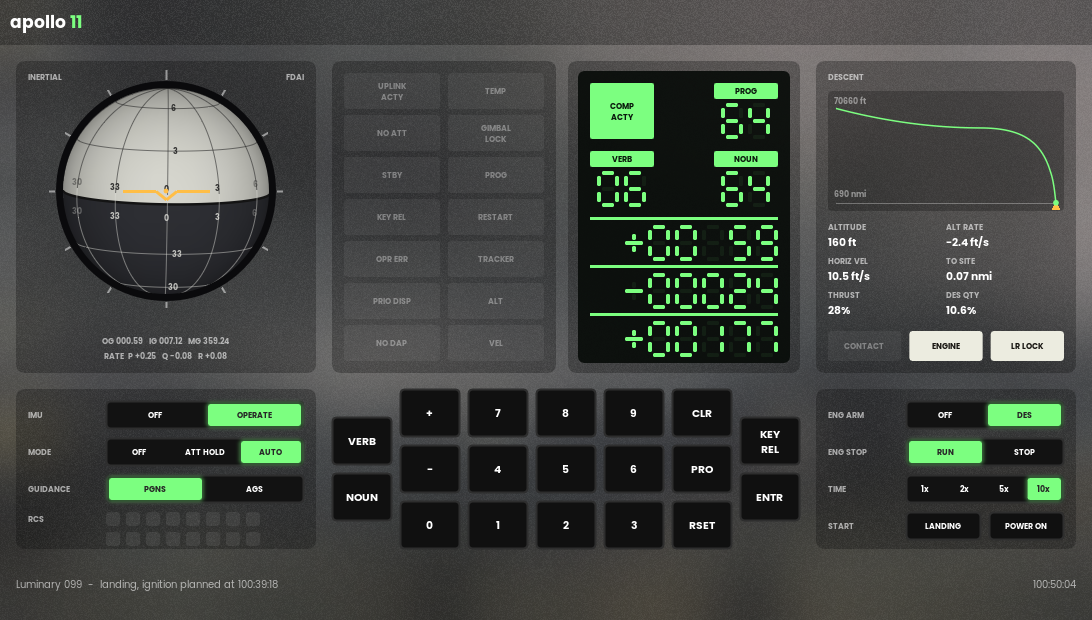
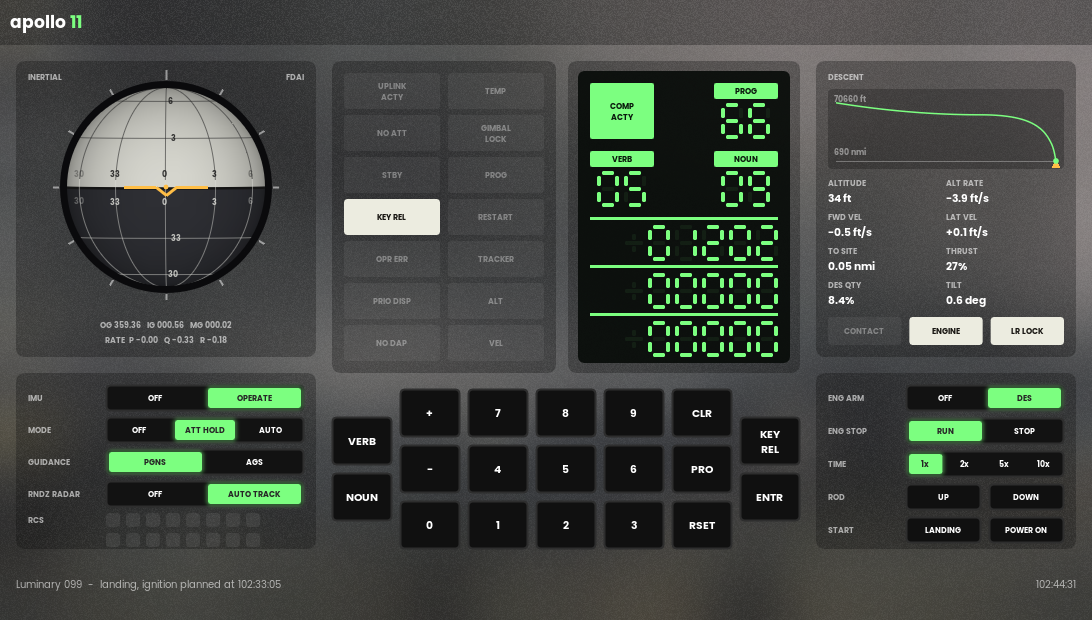
readme: P66, 1202, new screenshots

diff --git a/README.md b/README.md
@@ -23,7 +23,7 @@ so it's an emulator, not a port. the autopilot in the rope is what flies the lun
   - `yul::` - the assembler
   - `agc::c_computer` - the cpu, timers, interrupts, i/o channels, and the restart monitor (night watchman, rupt lock, tc trap) and standby
   - `agc::c_dsky` - the display and keyboard
-  - `lm::` - the lunar module: imu (gimbals, cdus, coarse align, gyro torquing, pipas), 16 rcs jets, rigid body attitude, its orbit around the moon, the descent engine (throttle, trim gimbal), the landing radar (antenna, beams, the readings as the computer decodes them), the gear on the surface (contact light, touchdown), the crew's switches and hand controller, apollo 11's pad load, and the start of the landing (the descent orbit, what the ground uplinked)
+  - `lm::` - the lunar module: imu (gimbals, cdus, coarse align, gyro torquing, pipas), 16 rcs jets, rigid body attitude, its orbit around the moon, the descent engine (throttle, trim gimbal), the landing radar (antenna, beams, the readings as the computer decodes them), the rendezvous radar's cdus (only those: what took the computer's time on apollo 11), the gear on the surface (contact light, touchdown), the crew's switches, hand controller and rate of descent switch, apollo 11's pad load, and the start of the landing (the descent orbit, what the ground uplinked)
 - `apollo11/` - the app: luminary 099 flying the lunar module, fdai ball and switches on the left, dsky in the middle, the descent on the right (its profile, altitude, rates, thrust, propellant, the contact light, engine arm and stop, time warp), drawn with [CelosUI](https://github.com/neear0/celosUI)
 - `tools/agc_check/` - console tool: `assemble <MAIN.agc> --compare <rope>`, `run <MAIN.agc> "V16N65E"`, `land` (as run, from the descent orbit), `symbols`, `test`
 - `Luminary099/`, `Comanche055/` - the 1969 source as Virtual AGC transcribed it, with a handful of transcription fixes so it assembles
@@ -36,7 +36,7 @@ so it's an emulator, not a port. the autopilot in the rope is what flies the lun
 
 ## test
 
-- `agc_check test` from the repo root: both ropes against the 1969 ones (`tests/ropes`), the pad load against itself and the program, then luminary flying the lm: imu turn-on, V49, V48, hand flying, standby, and the landing: P63's ignition, the landing radar's updates, P64, P65, the contact light, touchdown (how fast, how far from the site) and P68. about 10 seconds, exit code is the failures
+- `agc_check test` from the repo root: both ropes against the 1969 ones (`tests/ropes`), the pad load against itself and the program, then luminary flying the lm: imu turn-on, V49, V48, hand flying, standby, and the landing: P63's ignition, the landing radar's updates, P64, P65, the contact light, touchdown (how fast, how far from the site) and P68. then the same from 500 ft in P66, flown by a scripted crew on the hand controller and the rate of descent switch, and once more with the rendezvous radar on: V16N68 in P63, 1202, the software restart, and the landing anyway. about 12 seconds, exit code is the failures
 - ci runs it on every push, without the ui (no CelosUI needed)
 
 ## try
@@ -47,12 +47,12 @@ so it's an emulator, not a port. the autopilot in the rope is what flies the lun
 - `RSET` - clear lights
 - the imu turns on caged: 90 seconds with NO ATT lit, then the autopilot takes over
 - `V37E00E` `V49E` `V25E` `+03000E` `+02000E` `+00000E` `PRO` `PRO` - automatic maneuver to those gimbal angles (30 and 20 degrees), watch the ball
-- mode ATT HOLD and the arrows (pitch, roll) or `q` `e` (yaw) - fly it by hand, let go and it holds
+- mode ATT HOLD and the arrows (pitch, roll) or `q` `e` (yaw) - fly it by hand, let go and it holds. the keys push the stick a third of the way, with shift all the way
 - `V41N20E` and three angles - coarse align the imu, `V42E` and three angles - torque the gyros
 - `V37E06E` then hold `PRO` - standby, hold it again to come back
 - `V48E` then `PRO` `PRO` `PRO` - autopilot data (N46, N47), then the descent engine's trim (N48): its gimbal driven to the stop for a minute and back, V50N48 when done
 - START `POWER ON` - start over, as switched on
-- keyboard: digits, `v` `n` `+` `-` `c` `p` `r` `k`, enter
+- keyboard: digits, `v` `n` `+` `-` `c` `p` `r` `k`, enter for the dsky. the arrows, `q` `e` for the hand controller, `w` `s` for the rate of descent switch
 
 the landing, in the app: START `LANDING` puts the lunar module in apollo 11's descent orbit, 8 minutes before ignition (47 by 8.4 nmi), the imu aligned and the uplink made. then, as the crew did:
 
@@ -62,15 +62,21 @@ the landing, in the app: START `LANDING` puts the lunar module in apollo 11's de
 - once LR LOCK lights, `V57E` lets the landing radar's updates in. P64 at high gate, P65 to the surface
 - ENG STOP when CONTACT lights, then `V37E68E`: P68, V06N43 shows where the computer thinks it landed
 
+or land it yourself, as Armstrong did from about 500 ft: in P64 (or P65), MODE to `ATT HOLD` and a click of the ROD switch (`s`, or ROD `DOWN`) is P66. the computer holds the altitude rate it had, a foot a second faster with each click down (`s`) and slower with each click up (`w`), and the throttle is its. the attitude is yours: the arrows tilt the thrust to null FWD VEL and LAT VEL, TILT says how far over it is
+
+![P66 at 34 ft, attitude hold, coming down at 3.9 ft/s on the rate of descent switch](docs/landing.png)
+
+1202, as on apollo 11: RNDZ RADAR to `AUTO TRACK` before P63, and `V16N68E` (delta h) once the landing radar is in. the radar's cdus run off an 800 hz that's frequency locked to the computer's but not in phase, so they count both its angles at 6400 a second each, and every count is a memory cycle the program doesn't get: about 15% of them. with the monitor on top the executive runs out of core sets, alarm 1202 (PROG, `V05N09E` shows it), and the software restarts: the guidance goes on where it was, the monitor is dropped (back to V06N63), and it lands. the flight had more of them (a second 1202 when Aldrin keyed V16N68 again, and 1201 and 1202 in P64); those don't come here
+
+![alarm 1202 at 102:39, V05N09 showing it, the rendezvous radar in AUTO TRACK](docs/1202.png)
+
 TIME runs it up to 10 times faster.
 
-![P64 at 160 ft, the landing radar locked, the site 0.07 nmi ahead](docs/landing.png)
-
-headless: `agc_check land Luminary099/MAIN.agc "V37E63E{0661}P{5025}E{5018}P{0618}{5018}eE {9962}P MMMMMWW V57E !   s WV37E68E{0643}W?"` is the same landing typed in: `{vvnn}` waits for verb vv noun nn, `e` arms the engine, `!` waits for the contact light, `s` is engine stop. the landing radar locks on at about 34000 ft, V16N68 shows delta h settling after V57E
+headless: `agc_check land Luminary099/MAIN.agc "V37E63E{0661}P{5025}E{5018}P{0618}{5018}eE {9962}P MMMMMWW V57E !   s WV37E68E{0643}W?"` is the same landing typed in: `{vvnn}` waits for verb vv noun nn, `e` arms the engine, `!` waits for the contact light, `s` is engine stop, `h` attitude hold and `u` `d` the rate of descent switch. the landing radar locks on at about 34000 ft, V16N68 shows delta h settling after V57E
 
 ## not simulated
 
-the moon is a smooth sphere through the landing site (no terrain, no craters for the landing radar), and a point mass, where the computer's lunar gravity isn't (its navigation is some 40 m off by ignition from that). the gear just stops the vehicle, it doesn't bounce or tip. the ascent engine, the rendezvous radar, the aot, uplink
+the moon is a smooth sphere through the landing site (no terrain, no craters for the landing radar), and a point mass, where the computer's lunar gravity isn't (its navigation is some 40 m off by ignition from that). the gear just stops the vehicle, it doesn't bounce or tip. the ascent engine, the rendezvous radar (but its cdus' counting), the aot, uplink
 
 the pad load is apollo 11's, from the grumman lm data book (`agc/src/lm/pad_load.cpp` says which table and what's left out). the computer powers on with erasable cleared, so the first fresh start is alarm 1107 (PROG lit), as on a real cold start. the state vectors, the landing site alignment, the clock and the landing time are put where the ground's uplinks and the crew's alignment put them (`agc/src/lm/landing.cpp`). the landing time is moved so ignition comes at 102:33:05, as flown: the prelaunch pad load's would put it two hours early, at 100:39
 
